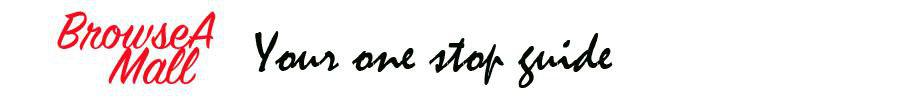
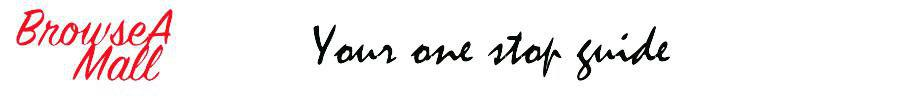
.

Changed region(s): [[0.28, 0.24, 0.7467, 0.87], [0.0, 0.06, 0.2489, 0.9]]

diff --git a/templates/css/menu-style.css b/templates/css/menu-style.css
@@ -11,14 +11,15 @@
 }
 
 #centernav {
-  width: 900px; /* 900px if you want your nav centered, set this to the width of your container, if you don't want it centered, change this number to 100% */
+  width: 100%; /* 900px if you want your nav centered, set this to the width of your container, if you don't want it centered, change this number to 100% */
   margin-left: auto ;
   margin-right: auto ;
   position:absolute;
-  margin-top:90px;
+  margin-top:10px; /* 90px previously */
   background-color: #819FF7;
-  width:75%;
+  width:95%; /* 75% previously */
 }
+
 
 #dropnav 
 {height:30px; background:rgba(0,0,0,0);} /* Changes the height and bg color of the main menu */
@@ -52,12 +53,19 @@
 
 li#main  {padding-top: 2px;} /* Sets the padding of items in the main menu */
 
-header{
+#header{
+	position: relative;
 	background-image:url(/img/banner.jpg);
 	margin-right: auto;
 	margin-left: auto;
-	background-repeat: no-repeat;	
-	height = 100px;
+	background: no-repeat center center cover;	
+	height:100px;
+}
+
+#header a {
+	display: block;
+	width: 100%;
+	height: 100%;
 }
 
 /*whole page color */

diff --git a/index.html b/index.html
@@ -1,12 +1,14 @@
 <!DOCTYPE html>
 <html>
-<div id="wrap">
-<header>
+<head>
 <title> Browse A Mall </title>
-<!--<h1> Browse A Mall </h1>
-<h2> Your one stop guide </h2>-->
 <link rel="stylesheet" type = "text/css" href = "templates/css/menu-style.css">
-
+</head>
+<body>
+<div id="wrap">
+<div id ="header">
+<a href ="index.html"></a>
+</div>
 <div id="centernav">
     <div id="dropnav">
         <ul>
@@ -32,13 +34,16 @@
             </li>
 
 
-        </ul>    
+        </ul>   
     </div>
 </div>
-</header>
 </div>
-<body>
-<p>body para</p>    
 </body>
+
+<body>
+	
+<p> Test paragraph</p>
+</body>
+
 
 </html>
